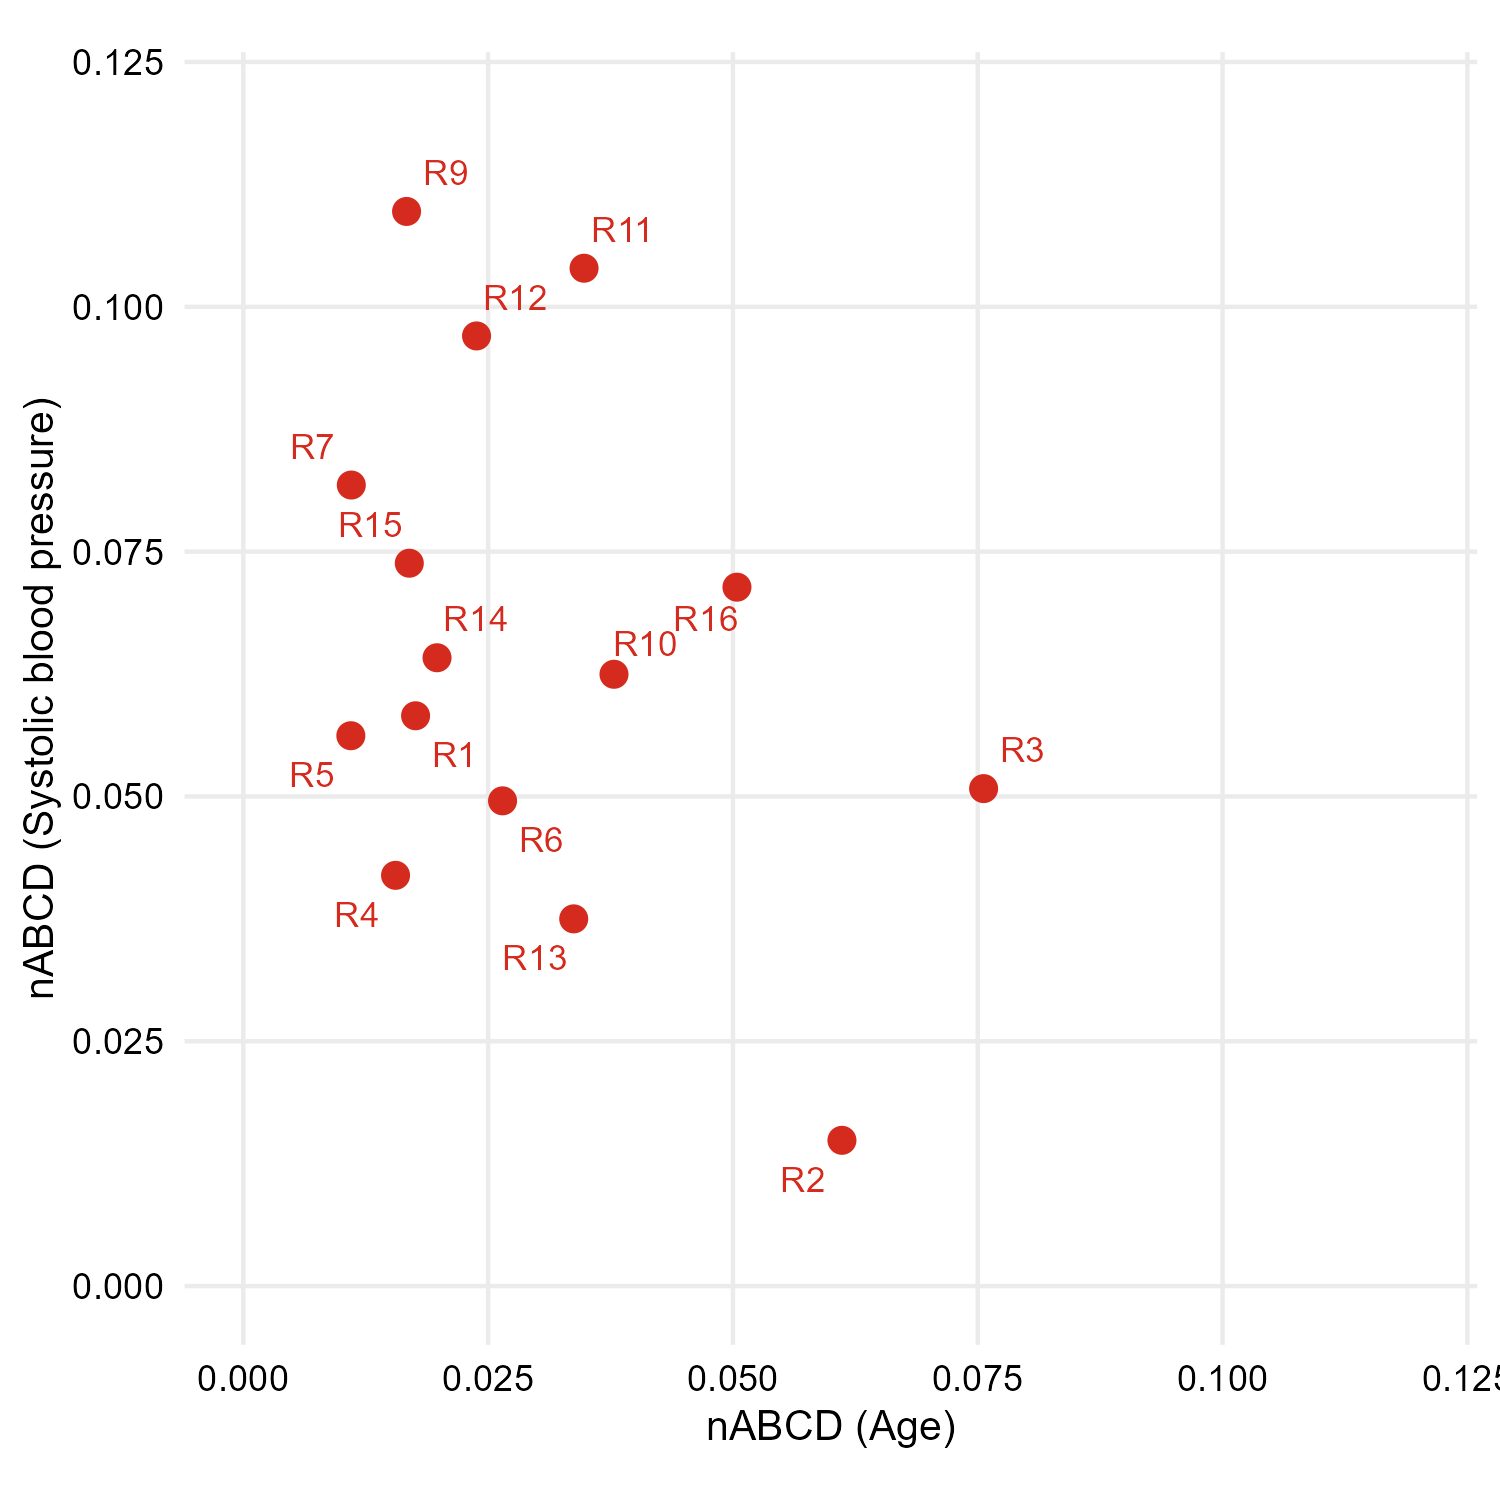
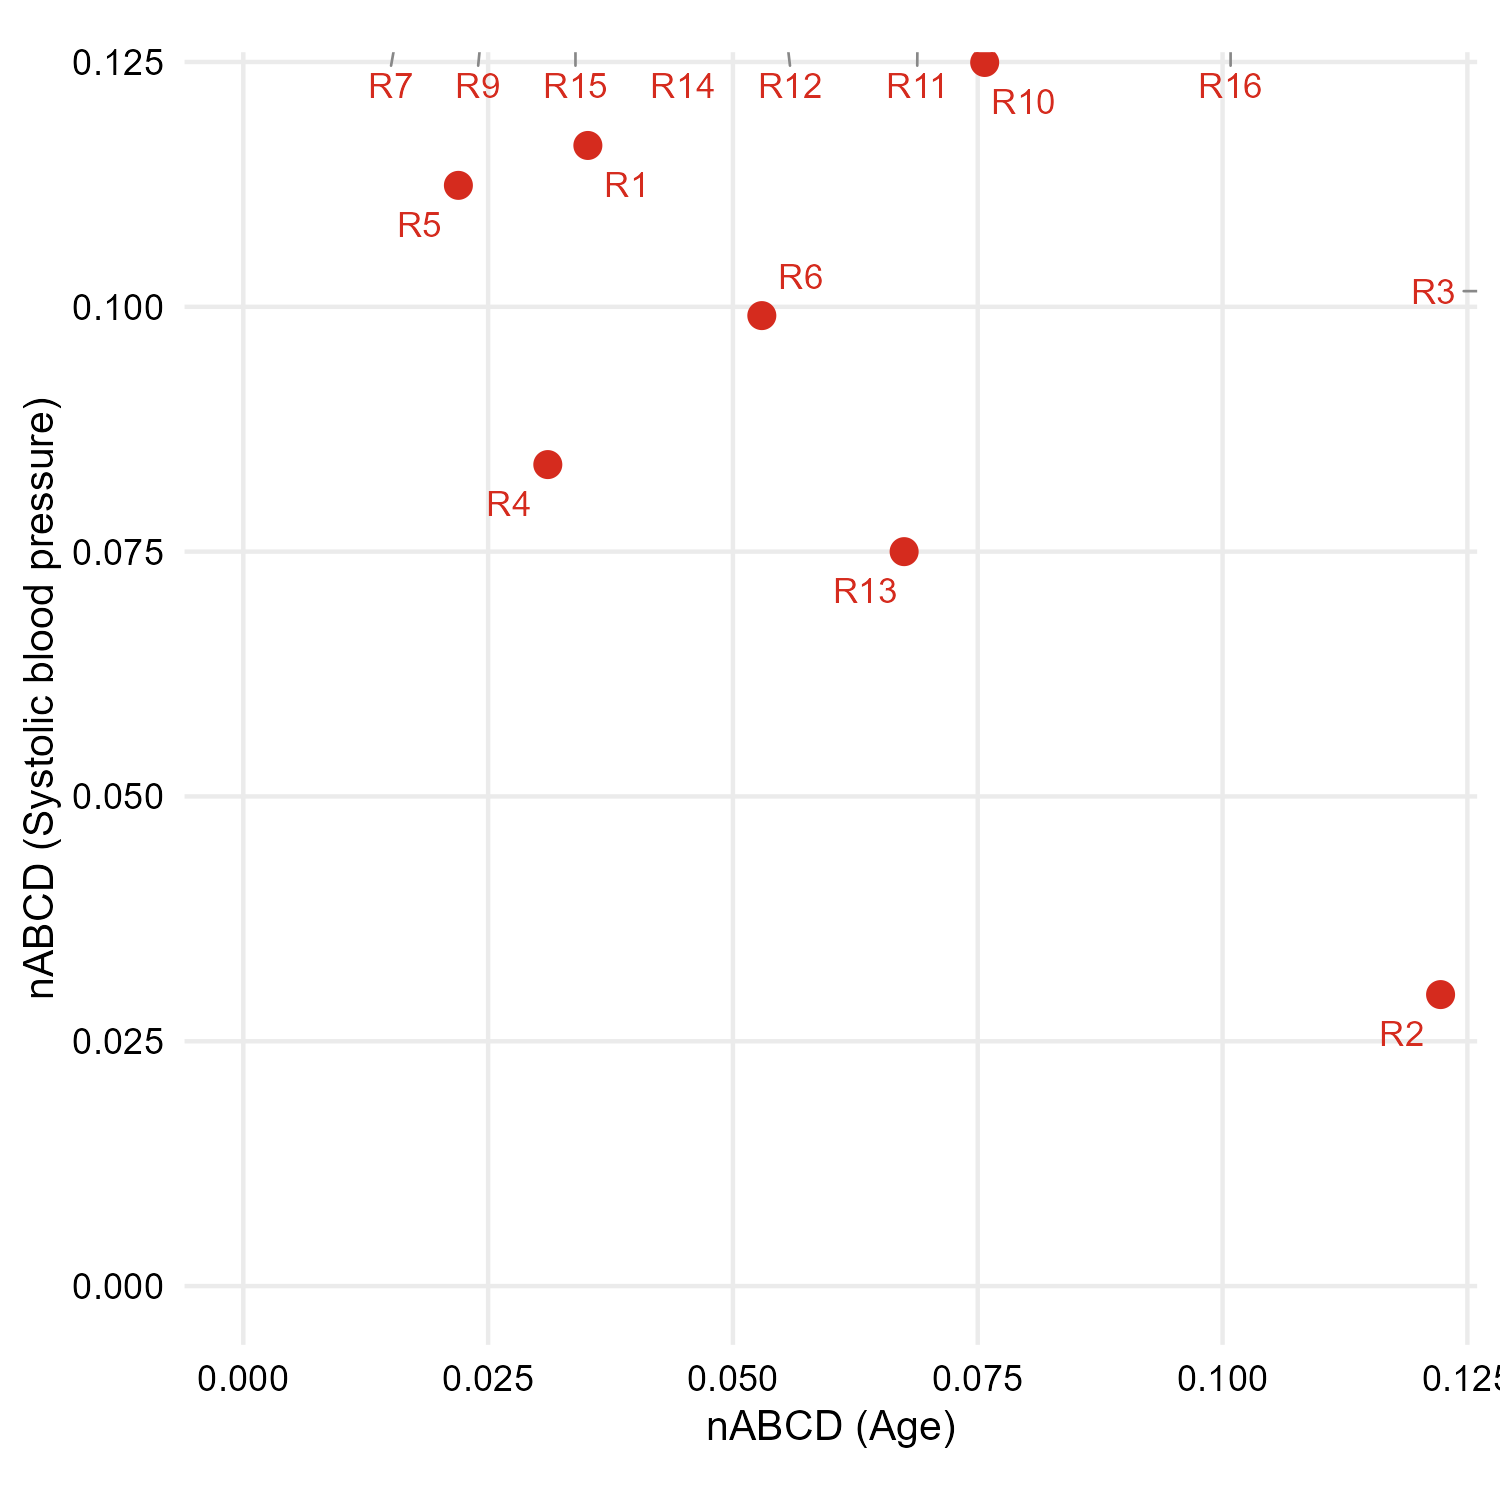
fix: nABCD redefinition — core R kernel + sim/GUSTO re-run + figures (Round 1)
Removes the factor of 2 from the nABCD denominator: nABCD = W1/IQR_pooled
(was W1/(2*IQR_pooled)). Code modifications:

- R/nABCD_rcpp.cpp: C++ kernel updated
- R/simulation_manuscript_v2.R: simulation wrapper updated
- data/GUSTO/gusto_application_r8.R: GUSTO application updated

Outputs regenerated under new definition:
- data/simulation_results_v2.csv (10000 reps × 2000 boot)
- data/simulation_results_v2_corrected.csv (verification copy)
- data/GUSTO/gusto_r8_results.csv
- figures/fig3_gusto_r8_forest{,_color}.{pdf,png}
- figures/fig_gusto_r8_calibration.{pdf,png}
- figures/slide_gusto_r8_scatter{,_color}.{pdf,png}

Mathematical impact: pure scaling. Δmax and L* invariants preserved.

diff --git a/projects/similarity-metric/R/nABCD_rcpp.cpp b/projects/similarity-metric/R/nABCD_rcpp.cpp
@@ -59,6 +59,7 @@ static double wasserstein1_general(const std::vector<double>& xs,
 }
 
 // nABCD from two sorted samples (general, for jackknife)
+// Definition (2026-05-03): nABCD = W_1 / IQR_pooled (no factor of 2)
 static double compute_nABCD_sorted(const std::vector<double>& xs,
                                    const std::vector<double>& ys) {
   int n = xs.size() + ys.size();
@@ -67,7 +68,7 @@ static double compute_nABCD_sorted(const std::vector<double>& xs,
 
   double iqr = iqr_sorted(pooled.data(), n);
   if (iqr <= 0) return NA_REAL;
-  return wasserstein1_general(xs, ys) / (2 * iqr);
+  return wasserstein1_general(xs, ys) / iqr;
 }
 
 // Remove element at position `pos` from sorted vector (O(n) copy)
@@ -126,7 +127,7 @@ List nABCD_bootstrap_cpp(NumericVector x, NumericVector y,
   } else {
     w1 = wasserstein1_general(xs, ys);
   }
-  double est = w1 / (2 * iqr_p);
+  double est = w1 / iqr_p;
 
   // --- Bootstrap (all B iterations in C++, no R overhead) ---
   std::vector<double> boot_vals;
@@ -171,7 +172,7 @@ List nABCD_bootstrap_cpp(NumericVector x, NumericVector y,
     double iqr_b = q3b - q1b;
 
     if (iqr_b > 0) {
-      boot_vals.push_back(w1b / (2 * iqr_b));
+      boot_vals.push_back(w1b / iqr_b);
     }
   }
 
